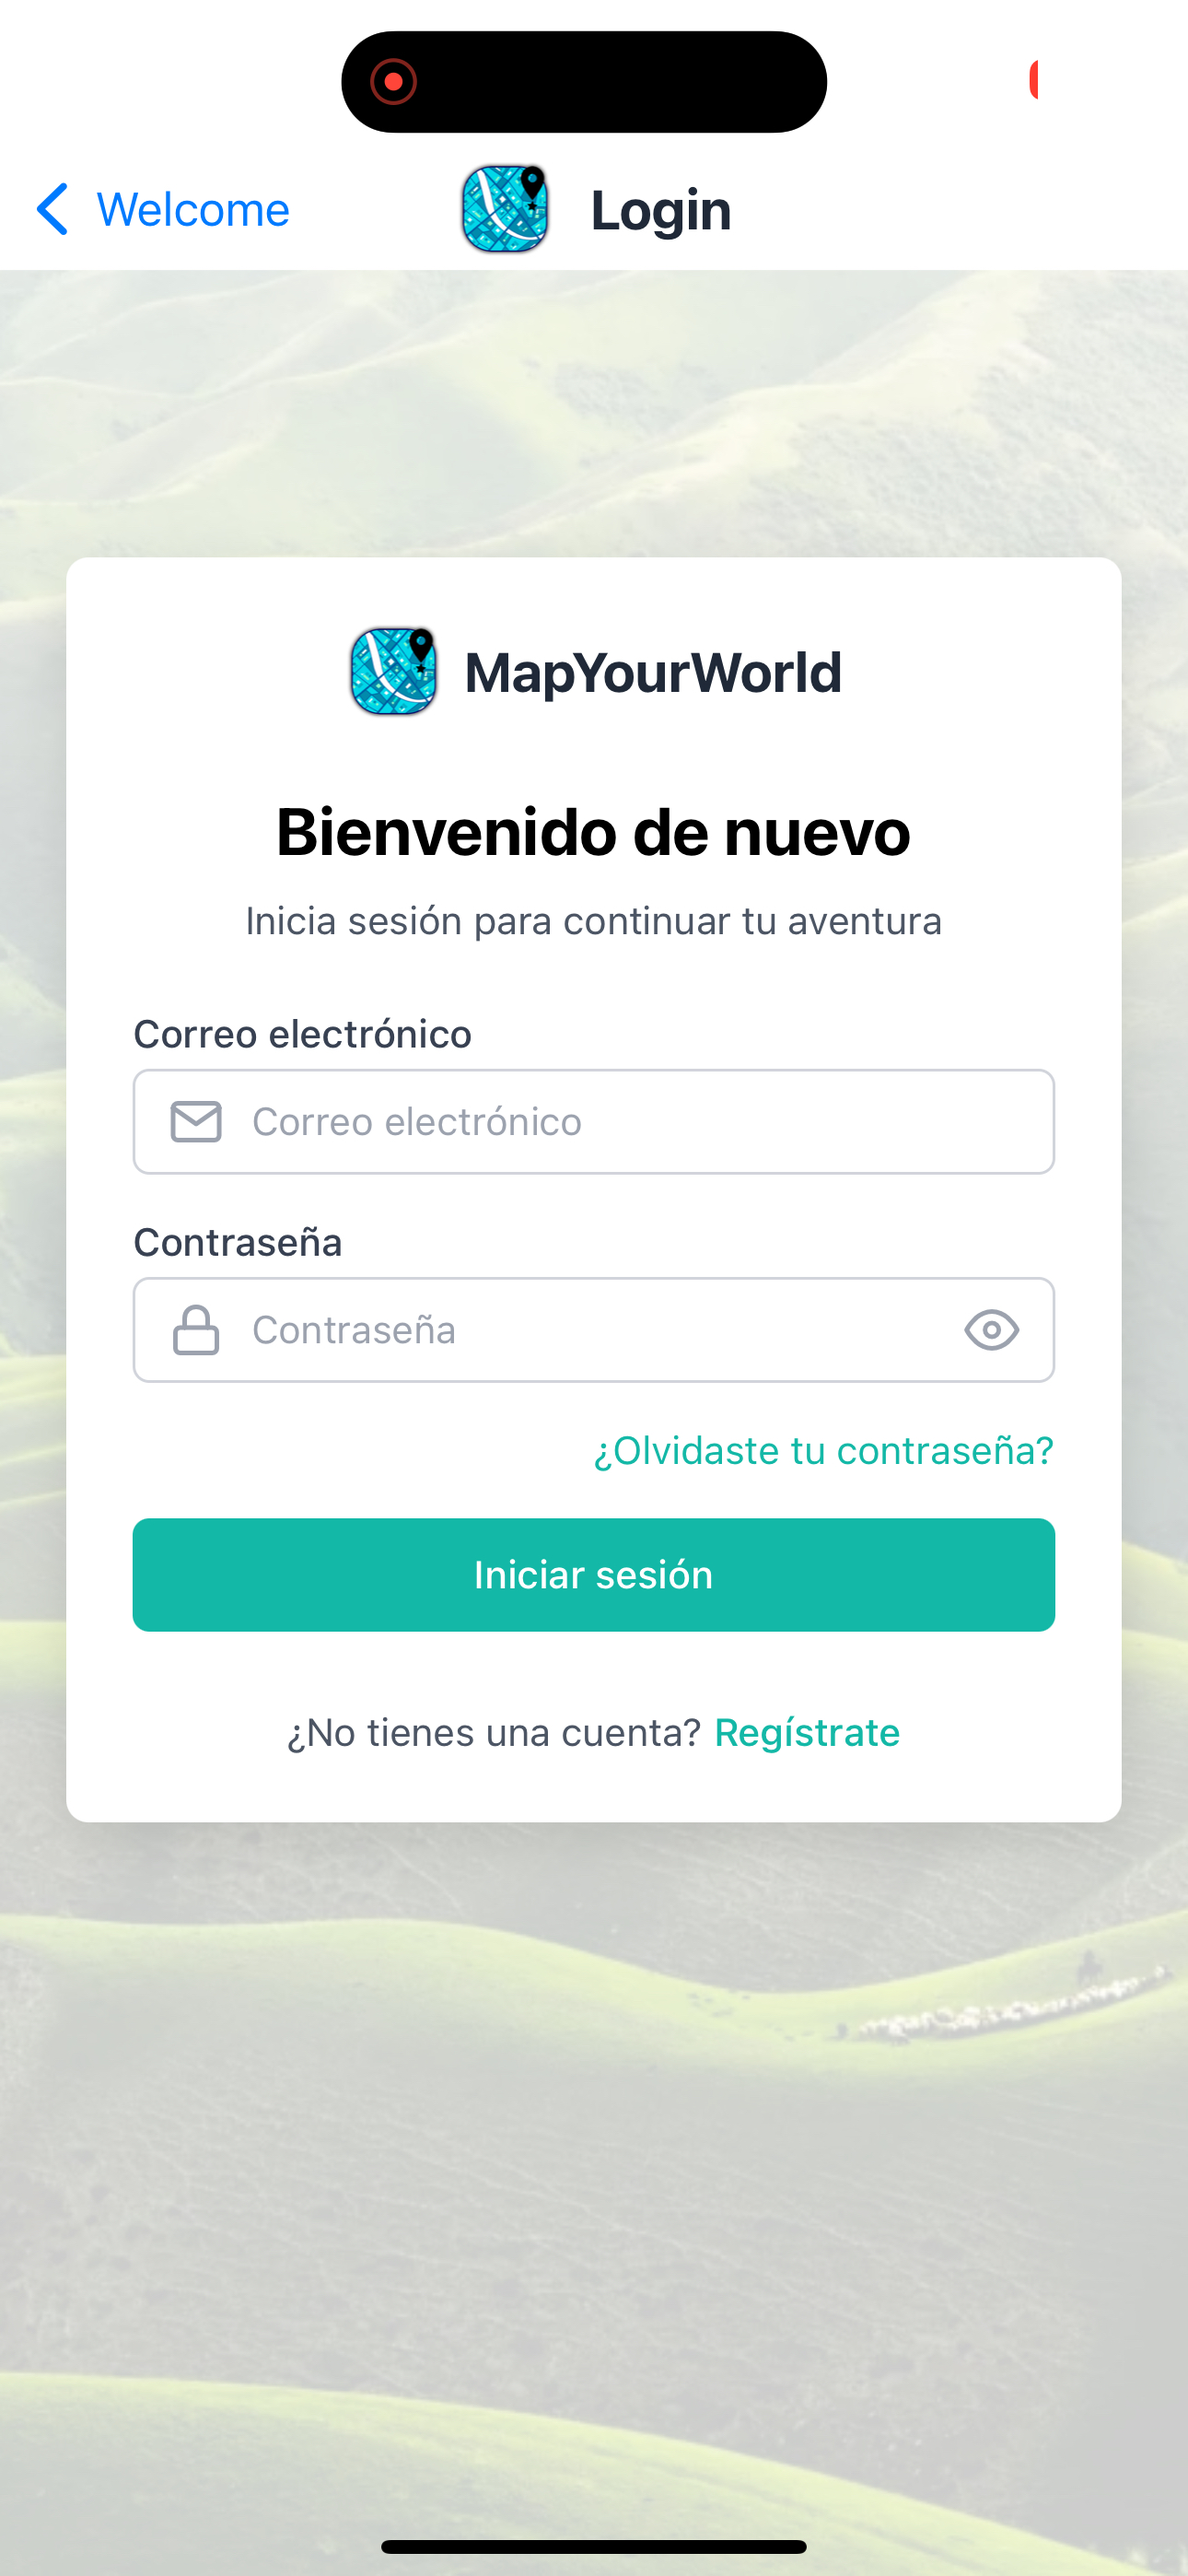
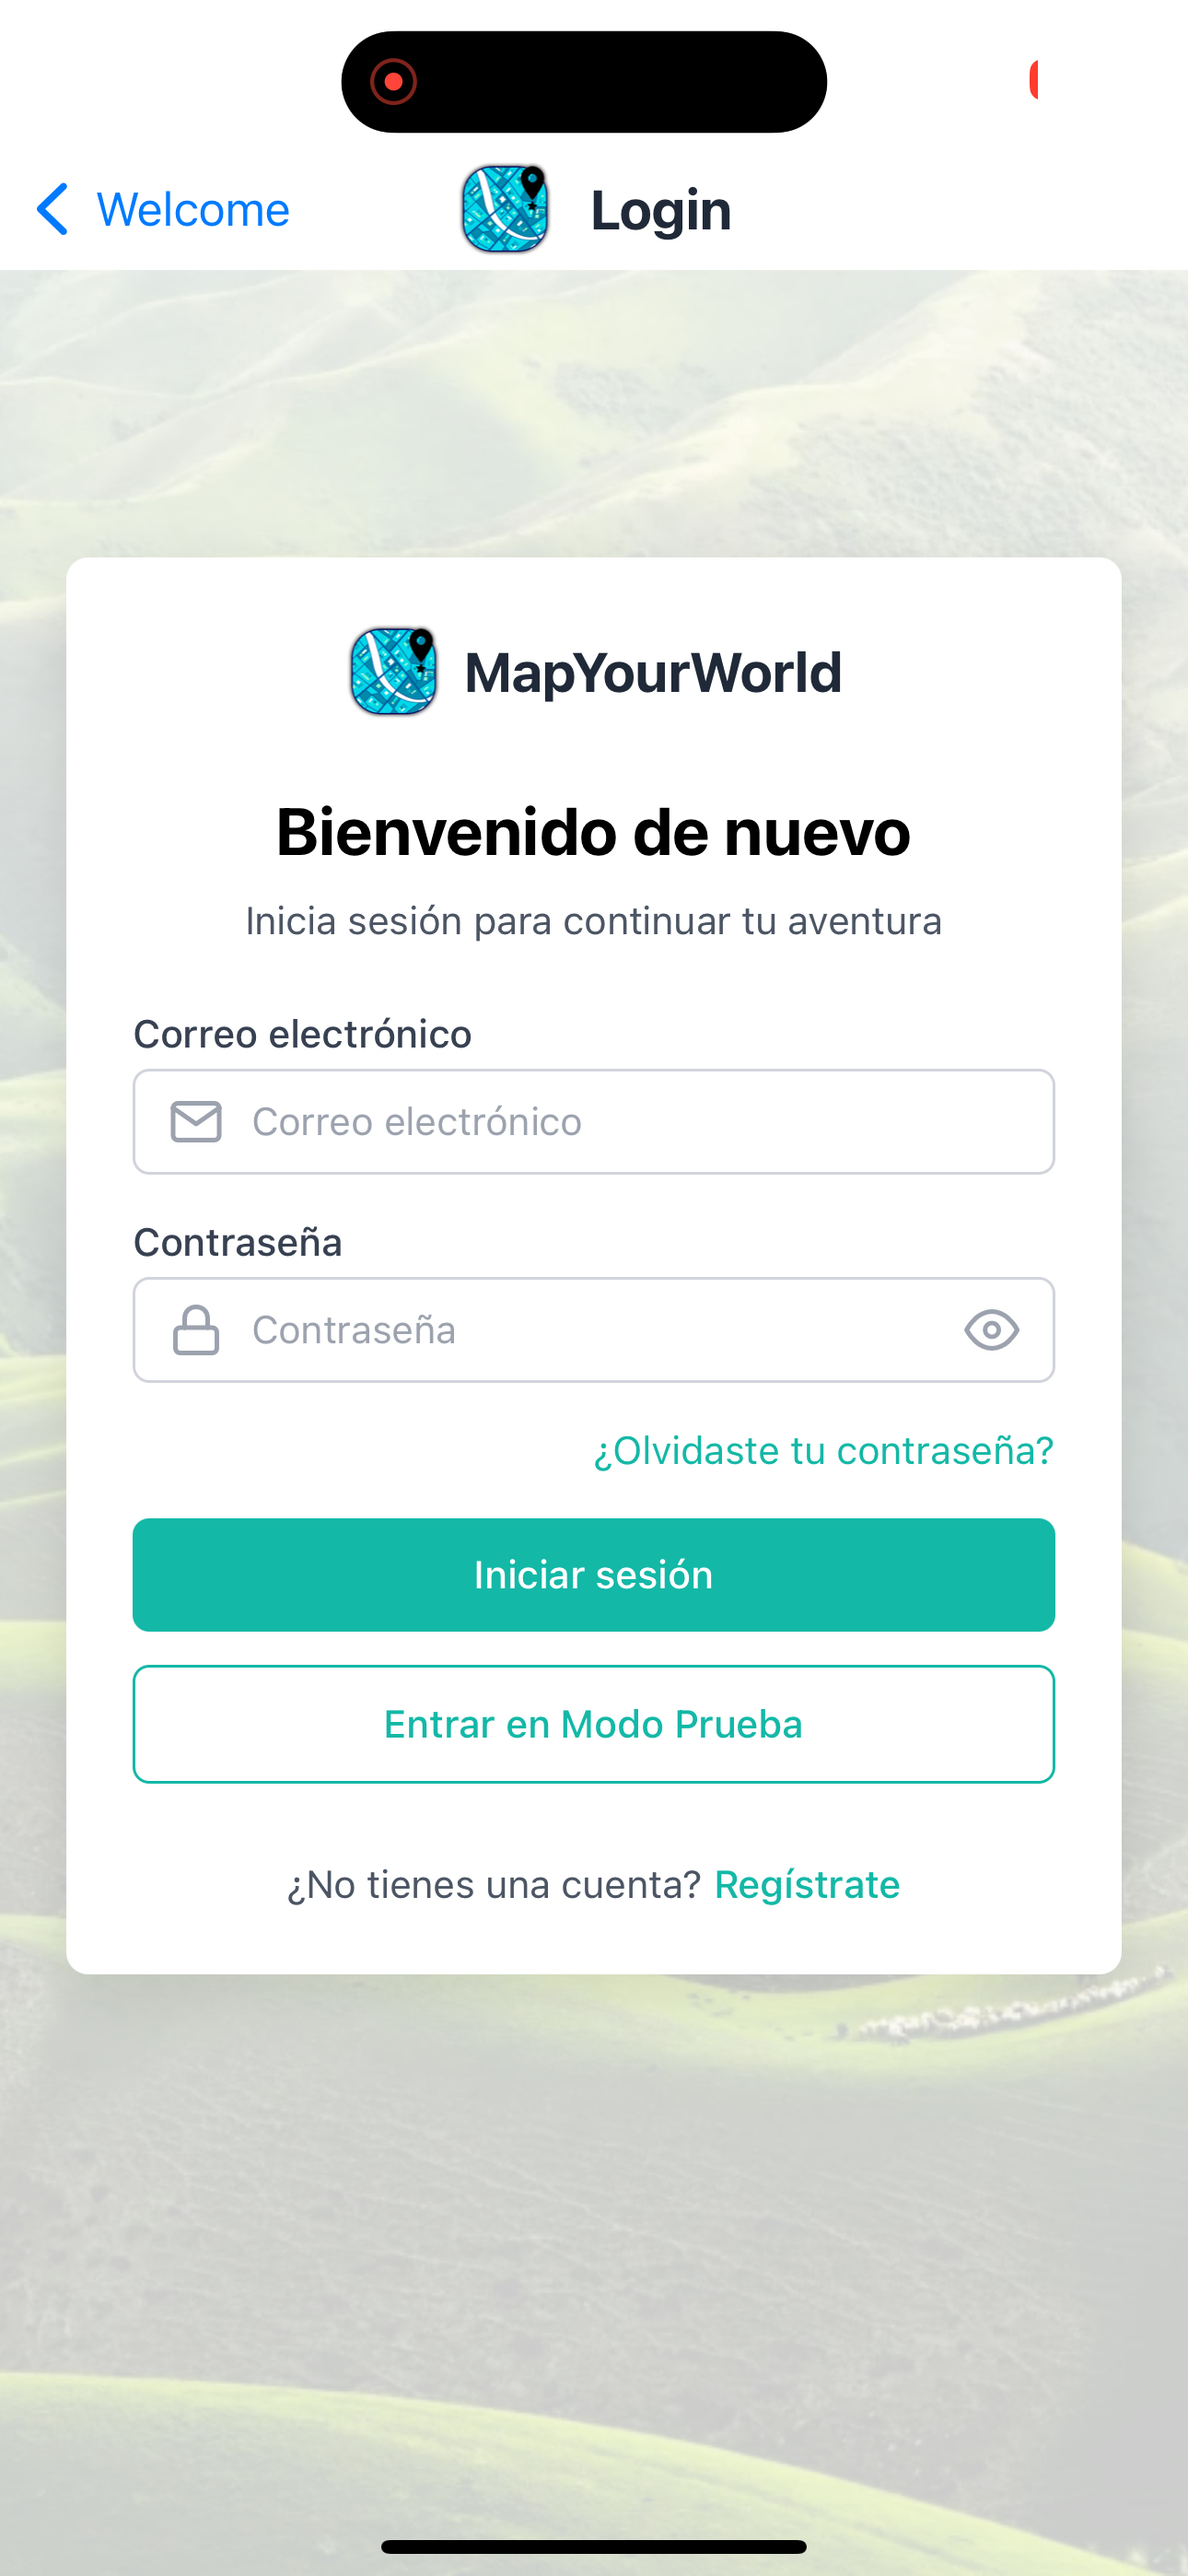
doc: Se ha añadido el apartado de información requerida y la tabla de versiones.

Changed region(s): [[0.031, 0.6534, 0.9612, 0.7779]]

diff --git a/Documentación/Sprint-1(S1)/revision.md b/Documentación/Sprint-1(S1)/revision.md
@@ -17,12 +17,20 @@
 <p align="center">
     Jaime Gómez Marín, Ángel Neria Acal y José María Baquero Rodríguez
 </p>
+
 <p align="center">
     12/03/2025
 </p>
 
 ---
+**CONTROL DE VERSIONES**
 
+| VERSIÓN | FECHA     | COMENTARIOS              | AUTOR              |
+|---------|-----------|--------------------------|--------------------|
+| V1      | 12/03/2025| Primera versión          | Jaime Gómez Marín, Ángel Neria Acal y José María Baquero Rodríguez     |
+| V2      | 13/03/2025| Actualización del documento| Ángel Neria Acal y José María Baquero Rodríguez
+
+---
 ## 1. Mapeo Explícito de Casos de Uso (UC) a Interacciones
 
 
@@ -45,12 +53,14 @@
   ![ZonaDescubierta](./Images/ZonaDescubierta.png)
   *(Caso de uso implementado en #S1)*
 
-    - **registro de puntos de interés**:  
+    - **Registro de puntos de interés**:  
   El usuario selecciona una zona del mapa desbloqueada en la que desea añadir un punto de interés. Al tocar la ubicación, se muestra una ventana emergente con un formulario donde debe añadir un nombre y una descripción, una etiqueta, que es opcional y fotografías, también opcionales. Una vez completado el proceso, el punto de interés queda registrado y aparece en el mapa interactivo con un marcador.
   ![POIFormulario](./Images/POIFormulario.png)
   *(Caso de uso implementado en #S1)*
+
   ![ExitoPOI](./Images/exitoPOI.png)
   *(Caso de uso implementado en #S1)*
+
   ![VerPOI](./Images/verPOI.png)
   *(Caso de uso implementado en #S1)*
 
@@ -85,26 +95,27 @@
 
 ## 2. Datos Necesarios para Realizar la Revisión
 
-- **URL de la página de inicio (Landing Page):**  
-  [Inserta la URL aquí]  
-  *(Debe permitir la navegación al despliegue)*
+- **URL de la página de inicio (Landing Page):** [Landing Page de MapYourWorld](https://mapyourworld.netlify.app/)  
+  
 
 - **Credenciales de Usuarios:**
+  Por ahora la funcionalidad implementada no precisa de credenciales de acceso para la aplicación, ya que el registro y login no se ha implementado como es debido. Para acceder se presenta la opción de *Entrar en modo prueba*, dentro de la pantalla de *Login*, lo que permite el acceso instantáneo usando un usuario de prueba. No obstante existen usuarios creados en la base de datos, aunque como se ha mencionado, actualmente no es posible acceder con sus credenciales.
+
   - **Usuario 1:**  
-    - Usuario: `[nombre_usuario]`  
-    - Contraseña: `[contraseña]`
+    - Usuario: `user1`  
+    - Contraseña: `user12345`
   - **Usuario 2:**  
-    - Usuario: `[nombre_usuario]`  
-    - Contraseña: `[contraseña]`
+    - Usuario: `user2`  
+    - Contraseña: `user12345`
   - **Administrador:**  
-    - Usuario: `[nombre_usuario]`  
-    - Contraseña: `[contraseña]`
+    - Usuario: `admin`  
+    - Contraseña: `admin12345`
 
 - **Plataforma de Despliegue:**
   - **URL:** [Inserta la URL aquí]  
   - **Credenciales:**  
-    - Usuario: `[nombre_usuario]`  
-    - Contraseña: `[contraseña]`
+    - Acceder como usuario de prueba.
+
 
 - **Repositorio en GitHub:**  
   - **URL:** [Repositorio de MapYourWorld](https://github.com/ISPP-Grupo-7/MapYourWorld)
